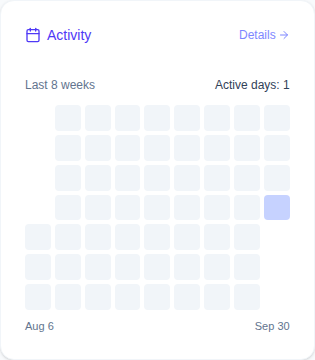
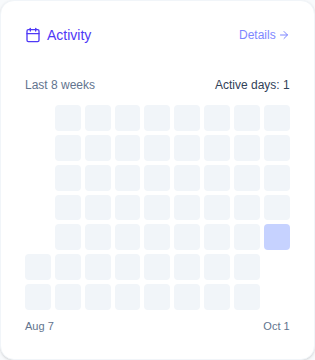
fix(brand): remaining user-facing EchoType strings in Tauri shell
Info.plist permission prompts, bootstrap splash, tray tooltip, and
Cargo package metadata are all user-visible. Log messages and the
window.EchoTypeNative bridge contract stay unchanged — the bridge name
is an API protocol with the native host, not display copy.

Generated with [Devin](https://devin.ai)

Changed region(s): [[0.8286, 0.5194, 0.9429, 0.7028], [0.8, 0.8861, 0.9429, 0.9167], [0.1429, 0.8861, 0.1714, 0.9167]]

diff --git a/src-tauri/bootstrap/index.html b/src-tauri/bootstrap/index.html
@@ -3,7 +3,7 @@
   <head>
     <meta charset="UTF-8" />
     <meta name="viewport" content="width=device-width, initial-scale=1.0" />
-    <title>EchoType</title>
+    <title>FlashDay</title>
     <style>
       :root {
         color-scheme: light;
@@ -47,7 +47,7 @@
   </head>
   <body>
     <main>
-      <h1>EchoType</h1>
+      <h1>FlashDay</h1>
       <p>Starting the local practice server…</p>
     </main>
   </body>

diff --git a/src-tauri/src/tray.rs b/src-tauri/src/tray.rs
@@ -49,7 +49,7 @@ pub fn setup_tray(app: &AppHandle) -> Result<(), Box<dyn std::error::Error>> {
 
     TrayIconBuilder::new()
         .icon(icon)
-        .tooltip("EchoType")
+        .tooltip("FlashDay")
         .menu(&menu)
         .on_tray_icon_event(move |tray_icon, event| {
             if let tauri::tray::TrayIconEvent::Click {
